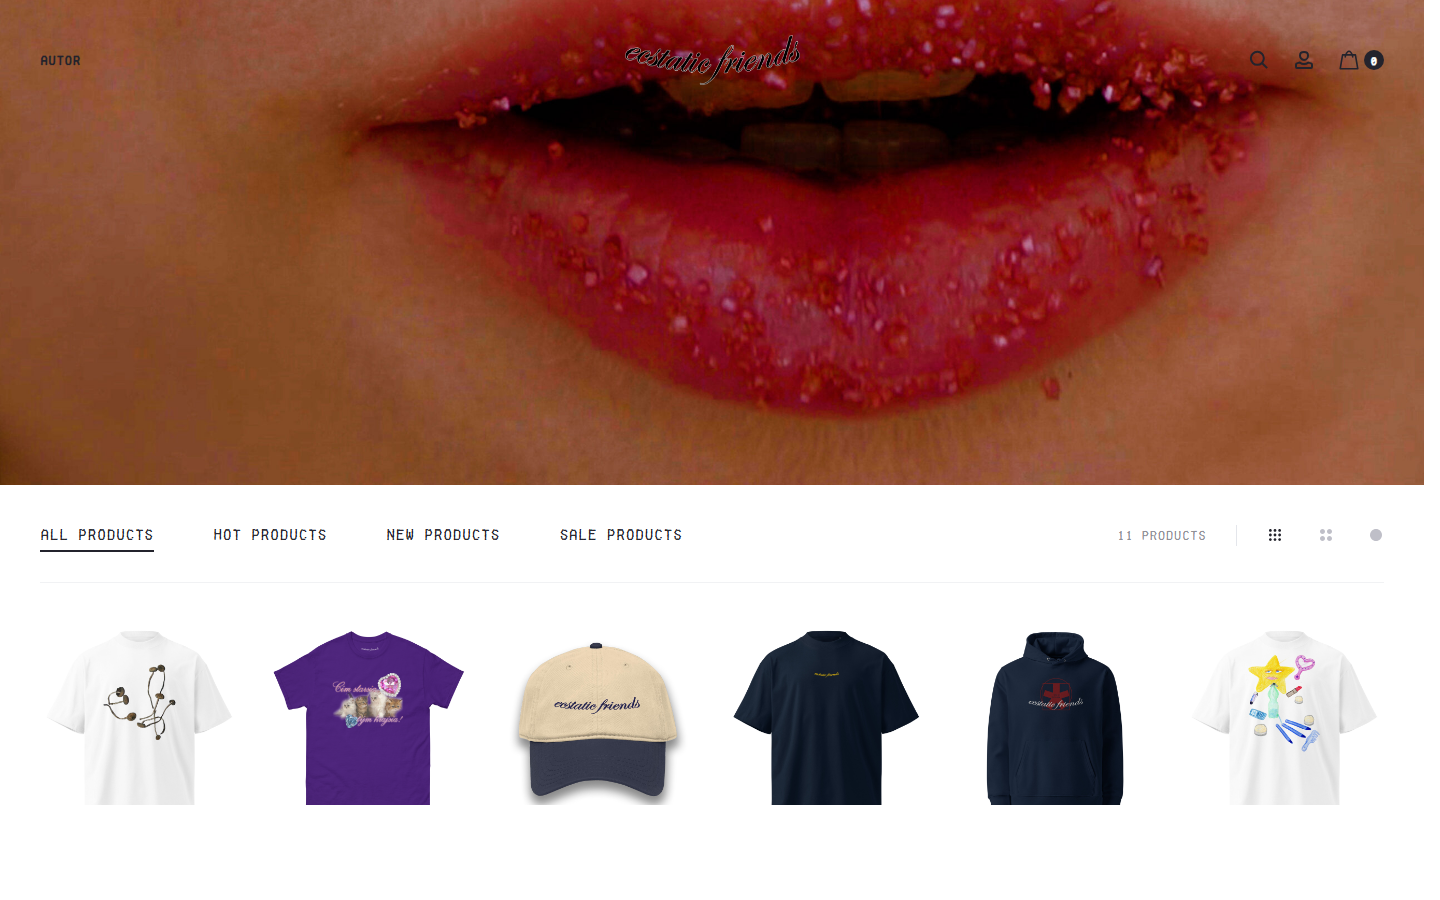
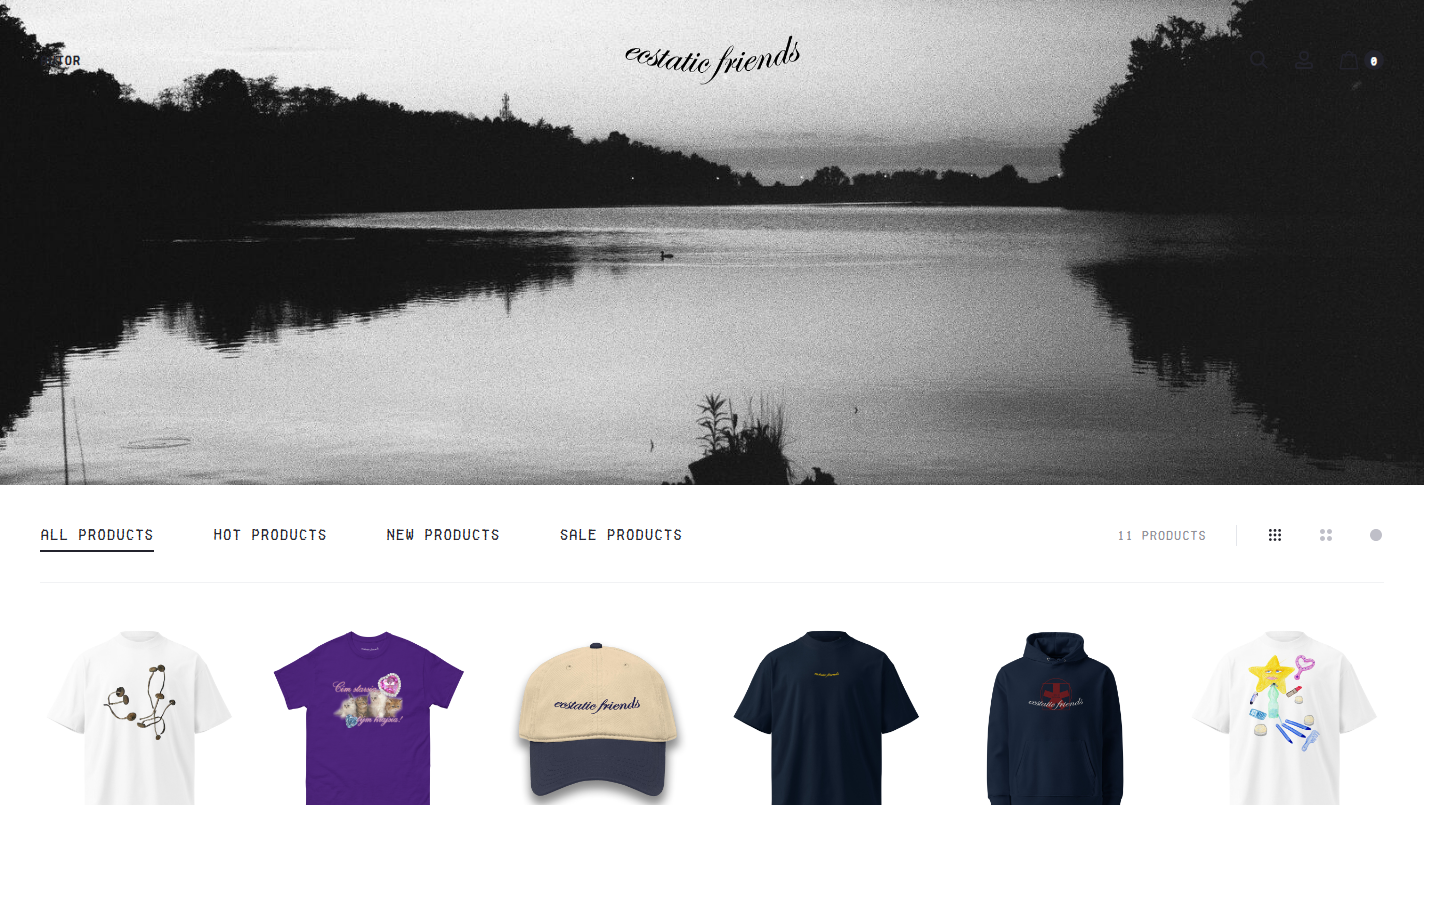
Update Ecstatic Friends screenshot in Weby to current site

diff --git a/index.html b/index.html
@@ -553,7 +553,7 @@ body.stage-open #stage{opacity:1;visibility:visible;transform:none;}
         <p class="desc"><span class="sk">Biblické štúdium, proroctvá o Ježišovi, kalendár sviatkov a čítanie.</span><span class="en">Bible study: prophecies about Jesus, a calendar of feasts, and readings.</span></p>
       </a>
       <a class="site-card" href="https://www.ecstaticfriends.com/" target="_blank" rel="noopener">
-        <div class="shot"><img src="assets/images/ecstaticfriends.png" alt="ecstaticfriends.com" loading="lazy"></div>
+        <div class="shot"><img src="assets/images/ecstaticfriends.png?v=2" alt="ecstaticfriends.com" loading="lazy"></div>
         <div class="meta">
           <span class="name">Ecstatic Friends</span>
           <span class="url">ecstaticfriends.com ↗</span>